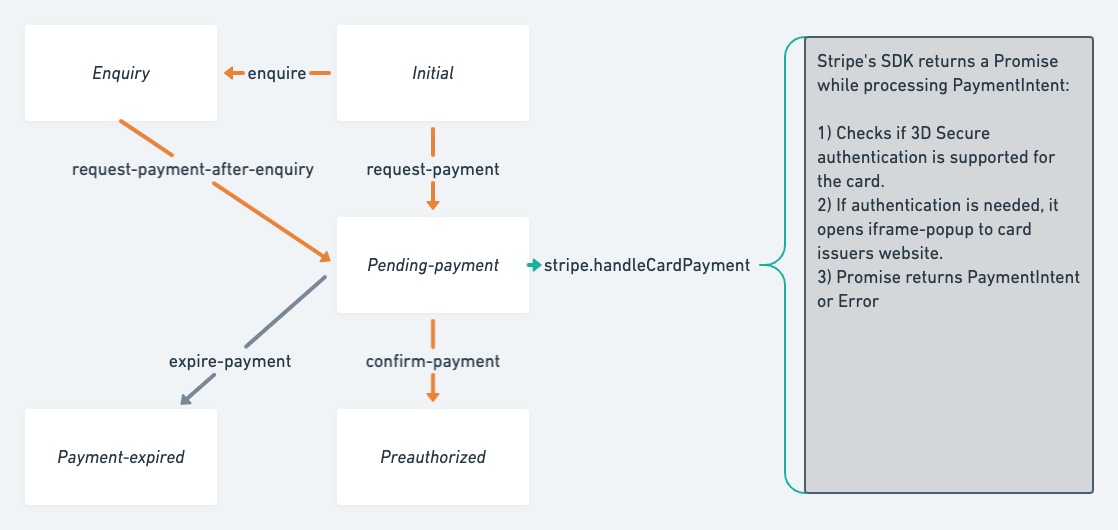
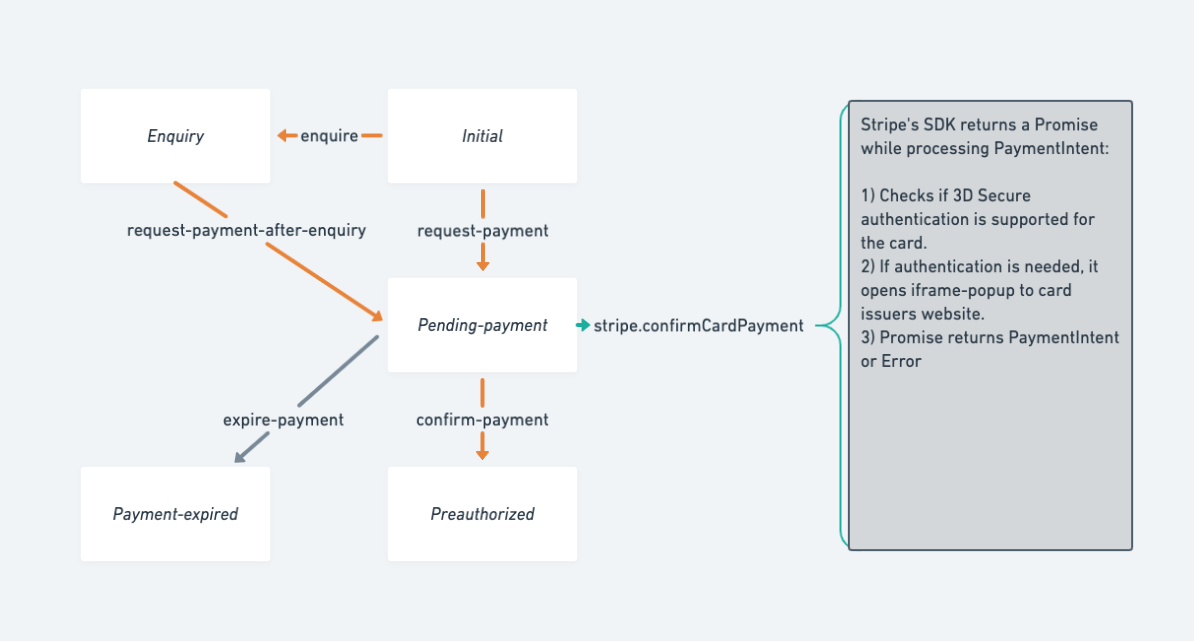
Update docs

diff --git a/src/docs/cookbook-payments/enable-payment-intents-in-ftw/index.md b/src/docs/cookbook-payments/enable-payment-intents-in-ftw/index.md
@@ -1,7 +1,7 @@
 ---
 title: Enable PaymentIntents
 slug: enable-payment-intents
-updated: 2019-10-03
+updated: 2020-08-11
 category: cookbook-payments
 ingress:
   Overview of how Stripe PaymentIntents work in FTW, and how you can
@@ -36,12 +36,12 @@ Stripe's Payment Intents API is a new way to build dynamic payment
 flows. Its
 [automatic confirmation flow](https://stripe.com/docs/payments/payment-intents/quickstart#automatic-confirmation-flow)
 helps a lot since all the authentication actions for a customer are
-included in a single call: `stripe.handleCardPayment`. When called,
+included in a single call: `stripe.confirmCardPayment`. When called,
 Stripe's SDK checks if there's a need for Strong Customer Authentication
 (SCA) and creates a popup to card issuer's website.
 
-However, to be able to call `handleCardPayment`, there needs to be a new
-state to the transaction process. Because of this, we have split the
+However, to be able to call `confirmCardPayment`, there needs to be a
+new state to the transaction process. Because of this, we have split the
 previous transition (Initial - request -> Preauthorized) into two:
 
 ![PaymentIntents flow needs a process change](./paymentintent-process-change.png)
@@ -50,7 +50,7 @@ So, after transitions (`request-payment` or
 `request-payment-after-enquiry`), API returns
 `stripePaymentIntentClientSecret` among the protected data of the
 current transaction. This client-secret is used for the call to
-`stripe.handleCardPayment`. Then there is another transition made
+`stripe.confirmCardPayment`. Then there is another transition made
 against Marketplace API, so that it can confirm the PaymentIntent and
 preauthorize the order. Transaction process continues normally after
 that - i.e. Provider has to accept or reject the order.
@@ -79,15 +79,21 @@ the changes.
 
 When using PaymentIntent flow, we don't need `stripe.createToken`
 anymore, but we need to add two new thunk calls:
-`stripe.handleCardPayment` and `stripe.retrievePaymentIntent`.
+`stripe.confirmCardPayment` and `stripe.retrievePaymentIntent`.
 
-`stripe.handleCardPayment` is needed to provide SCA as mentioned
+`stripe.confirmCardPayment` is needed to provide SCA as mentioned
 earlier. However, since customers are making several AJAX calls on
 `CheckoutPage`, it is possible that there is a network error or
 something else happening between those calls. Even the whole page, might
 be reloaded at some point. We need to retrieve up-to-date PaymentIntent
 from Stripe API and check its status to be able to continue the payment
 process. This can be done with `stripe.retrievePaymentIntent`.
+
+> Note: previously `stripe.confirmCardPayment` was called
+> `stripe.handleCardPayment` which is now deprecated. Basically,
+> handleCardPayment has been renamed to confirmCardPayment. In addition
+> to the rename, Stripe has slightly modified the arguments. These
+> changes should not affect the behavior of the method.
 
 ## 3. CheckoutPage: add new API calls and call them in sequence
 
@@ -112,9 +118,9 @@ address) and then 4 thunk-calls/Promises need to be made in sequence:
 - Created transaction is saved to session storage or existing enquiry tx
   is updated. (There is more about this step later.)
 
-### Step 2. _onHandleCardPayment_
+### Step 2. _onConfirmCardPayment_
 
-- This is a call `stripe.handleCardPayment`
+- This is a call `stripe.confirmCardPayment`
 - If the customer must perform additional steps to complete the payment,
   such as authentication, Stripe.js walks them through that process.
 
@@ -131,8 +137,8 @@ address) and then 4 thunk-calls/Promises need to be made in sequence:
 
 ![Stripe.js: PaymentIntents authentication modal](./stripe-paymentintents-authentication-modal.png)
 
-> Note: `stripe.handleCardPayment` needs an instance of Stripe to be
-> passed from StripePaymentForm. `stripe.handleCardPayment` will check
+> Note: `stripe.confirmCardPayment` needs an instance of Stripe to be
+> passed from StripePaymentForm. `stripe.confirmCardPayment` will check
 > card details from connected Stripe Elements input.
 
 ## 4. CheckoutPage: save updated transaction
@@ -173,7 +179,7 @@ to UX reasons. That can be made just by not adding
 `StripePaymentAddress` sub-component.
 
 > Note: if the page is reloaded after successful call to
-> `stripe.handleCardPayment` billing details should not be shown to the
+> `stripe.confirmCardPayment` billing details should not be shown to the
 > user since credit card number and other billing details are already
 > sent to Stripe.
 

diff --git a/src/docs/cookbook-payments/how-saving-payment-card-works-in-ftw/index.md b/src/docs/cookbook-payments/how-saving-payment-card-works-in-ftw/index.md
@@ -1,7 +1,7 @@
 ---
 title: How saving a payment card works in FTW
 slug: save-payment-card
-updated: 2019-09-06
+updated: 2020-08-11
 category: cookbook-payments
 ingress:
   An overview of how the Flex Template for Web functionality for storing
@@ -113,7 +113,7 @@ checkout flow:**
     optional permission to save card details for future bookings.
 - In `request-payment` transition, a new parameter needs to be passed if
   card details are saved at the same time: `setupPaymentMethodForSaving`
-- `stripe.handleCardPayment` call, `confirm-payment` transition and the
+- `stripe.confirmCardPayment` call, `confirm-payment` transition and the
   call to send initial message are handled as before
 - Save the payment method if user has given permission to do that:
   - Create a `stripeCustomer` entity for the current user if needed.
@@ -140,7 +140,7 @@ book a listing, there are couple of changes needed:
 
 - The id of Stripe's payment method needs to be sent to Flex API as
   `paymentMethod`, when requesting payment.
-- `stripe.handleCardPayment`: Stripe Elements (card) is not needed if
+- `stripe.confirmCardPayment`: Stripe Elements (card) is not needed if
   the default payment method is used.
 
 ## Saving Payment Card with PaymentIntents payment flow
@@ -246,15 +246,18 @@ from FTW.
 ###### Step 2.
 
 ```js
-stripe.handleCardPayment(stripePaymentIntentClientSecret, [
-  card,
-  paymentParams,
-]);
+stripe.confirmCardPayment(
+  stripePaymentIntentClientSecret,
+  paymentParams
+);
 ```
 
-> Note: card (StripeElement), and paymentParams are not needed when
-> using previously saved payment card. FTW handles this in
-> [`handleCardPayment` thunk function](https://github.com/sharetribe/flex-template-web/blob/master/src/ducks/stripe.duck.js#L657).
+`paymentParams` should include card element and billing details. See
+[stripe.confirmCardPayment documentation](https://stripe.com/docs/js/payment_intents/confirm_card_payment)..
+
+> Note: paymentParams are not needed when using previously saved payment
+> card. FTW handles this in
+> [`confirmCardPayment` thunk function](https://github.com/sharetribe/flex-template-web/blob/master/src/ducks/stripe.duck.js#L657).
 
 Stripe's frontent script checks if PaymentIntent needs extra actions
 from customer. Some payments might need Strong Customer Authentication
